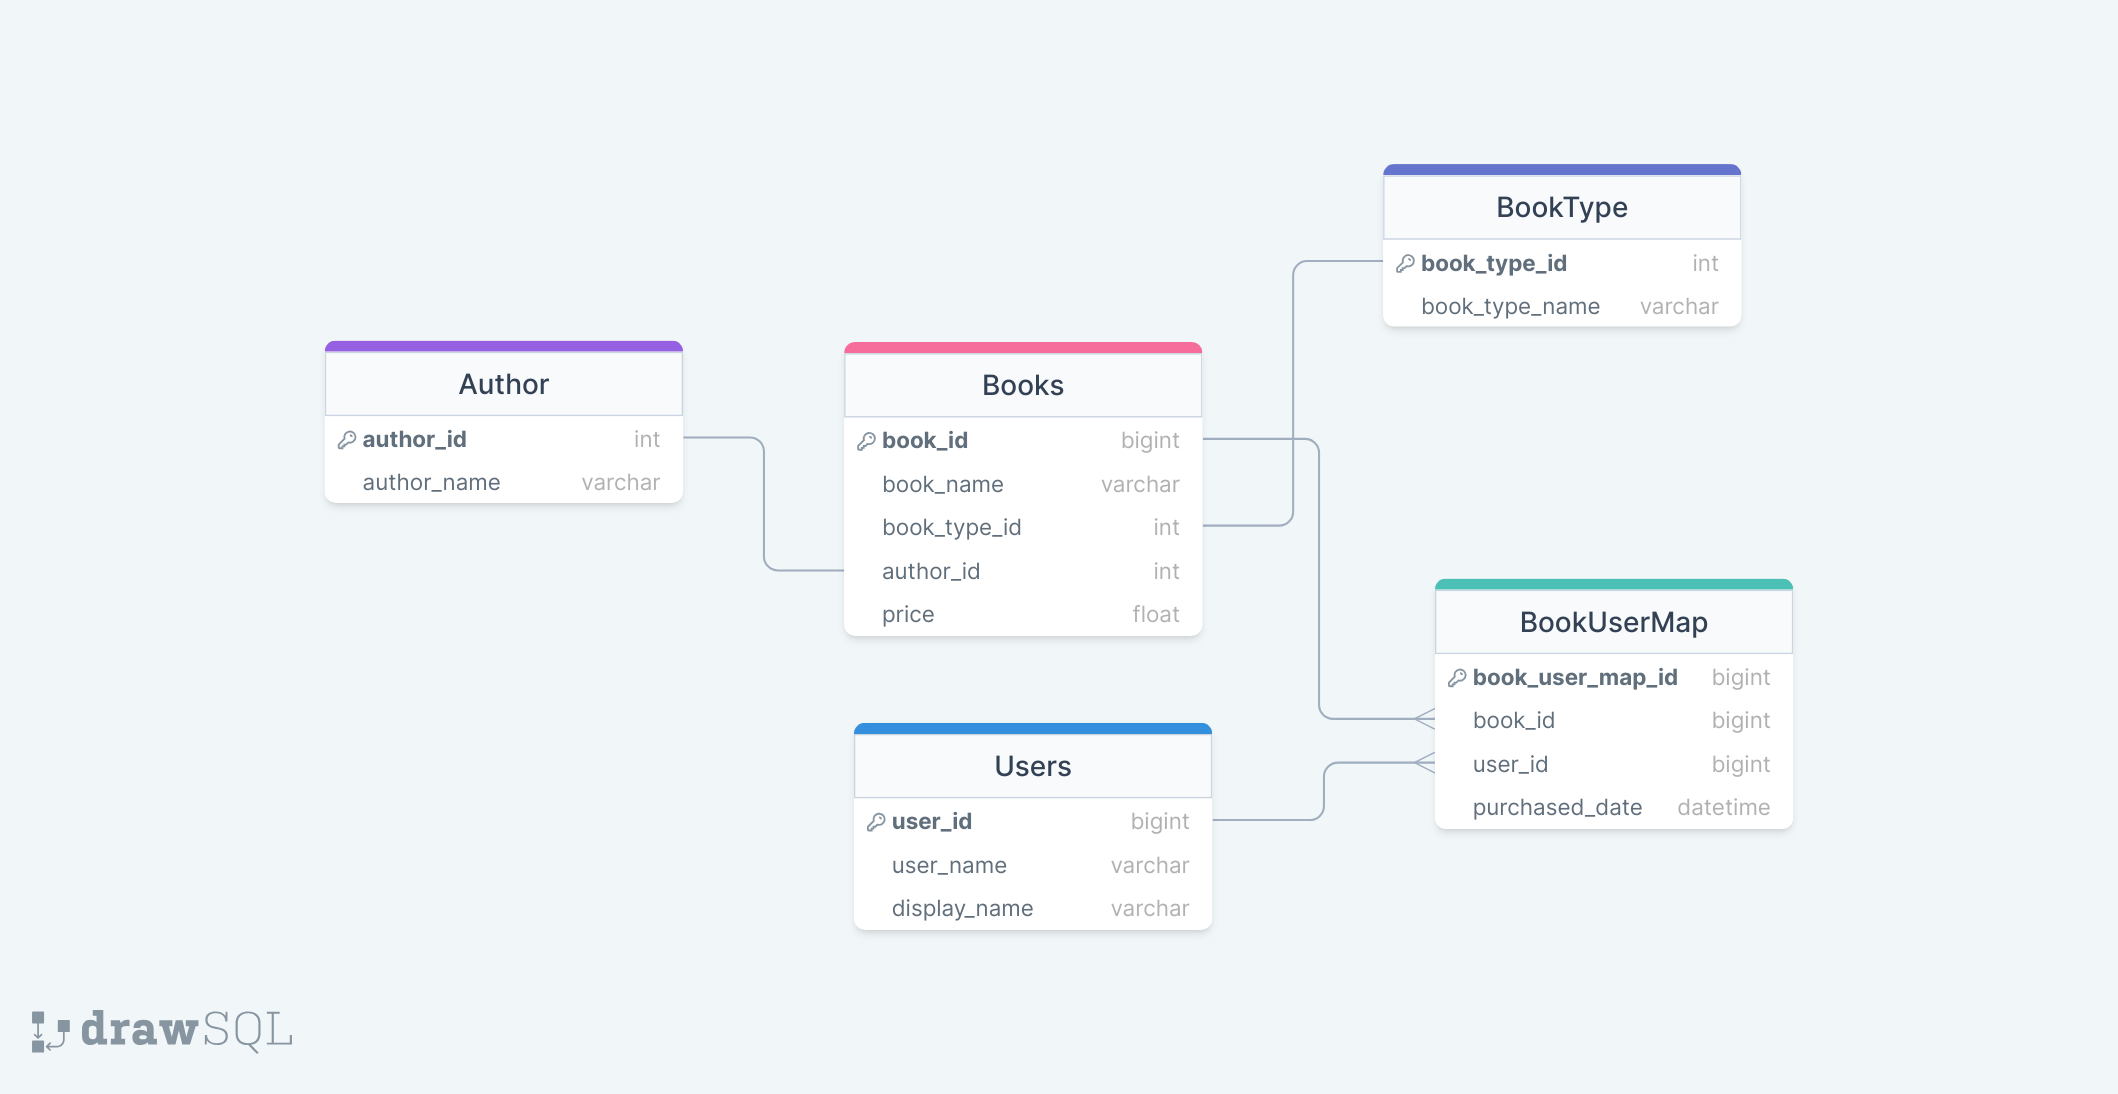
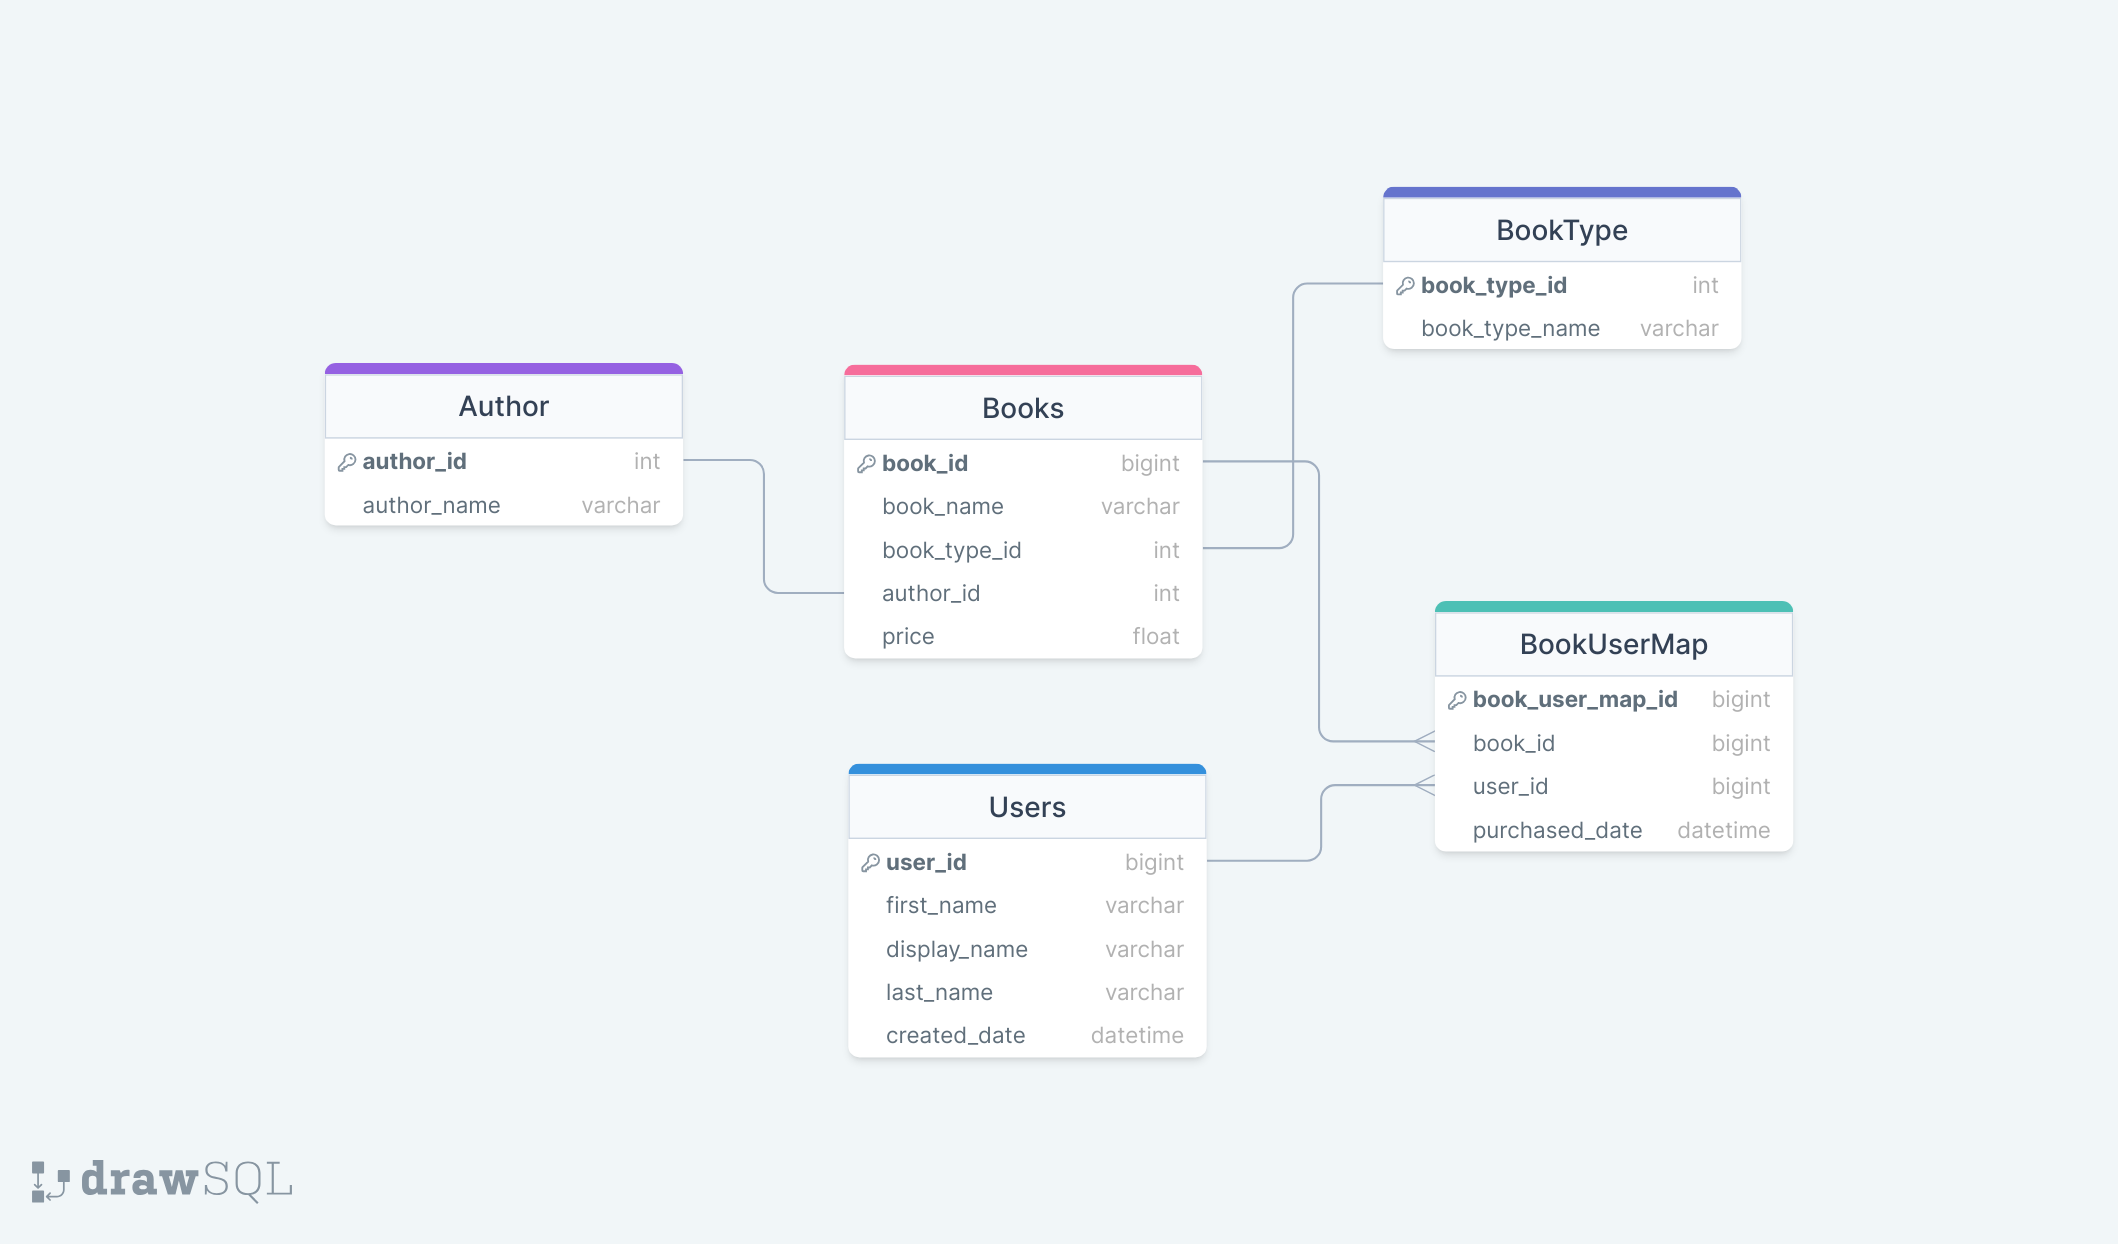
Updated database design "Add user" model, stored procedure implementation

diff --git a/BookManagerAPIApp/BookManagerAPI.Repository/Impl/SQLDBRepository.cs b/BookManagerAPIApp/BookManagerAPI.Repository/Impl/SQLDBRepository.cs
@@ -36,5 +36,22 @@ namespace BookManagerAPI.Repository.Impl
                 throw;
             }            
         }
+
+        public async Task<bool> AddNewUser(UserModel userModel)
+        {
+            try
+            {
+                var queryResult = await _connection.QueryAsync<bool>("dbo.spo.AddUser @userId, @firstName, @lastName, @displayName",
+                                        new { userId = userModel.UserId, firstName = userModel.FirstName, lastName = userModel.LastName, displayName = userModel.DisplayName });
+
+                return true;
+
+            }
+            catch (Exception ex)
+            {
+                _logger.LogError(ex, "Exception while adding new user to database");
+                throw;
+            }
+        }
     }
 }

diff --git a/BookManagerAPIApp/BookManagerAPI.Repository/Models/UserModel.cs b/BookManagerAPIApp/BookManagerAPI.Repository/Models/UserModel.cs
@@ -1,0 +1,14 @@
+namespace BookManagerAPI.Repository.Models;
+
+public class UserModel
+{
+    public long UserId { get; set; }
+
+    public string FirstName { get; set; }
+
+    public string? LastName { get; set; }
+
+    public string? DisplayName { get; set; }
+
+    public DateTime? CreatedDate { get; set; }
+}

diff --git a/BookManagerAPIApp/BookManagerAPI.Repository/Interfaces/ISQLDBRepository.cs b/BookManagerAPIApp/BookManagerAPI.Repository/Interfaces/ISQLDBRepository.cs
@@ -10,5 +10,7 @@ namespace BookManagerAPI.Repository.Interfaces
     public interface ISQLDBRepository
     {
         public Task<bool> AddNewBook(AddBookModel model);
+
+        public Task<bool> AddNewUser(UserModel userModel);
     }
 }
